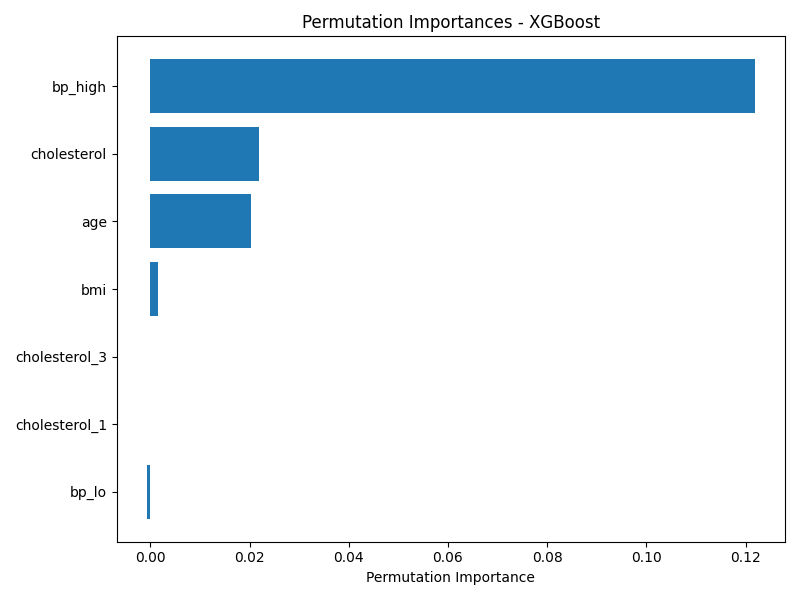
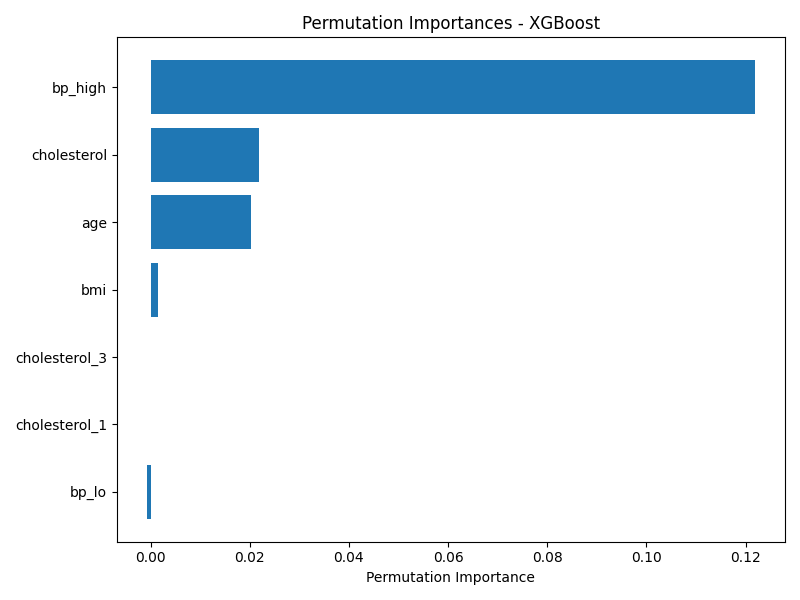
added featureimportance analysis

diff --git a/src/dashboard.py b/src/dashboard.py
@@ -10,6 +10,7 @@ from models.dash import samefeature, calculate_and_add_bmi, preprocess_input_dat
 from sklearn.preprocessing import MinMaxScaler
 from feature_engineering import FeatureEngines
 from data_preprocessing import DataProcessor
+from models.feature_importance_analysis import FeatureImportanceAnalysis
 from utils import DataInitializer
 # import scikitplot as skplt
 
@@ -65,6 +66,11 @@ rf_classif = load(f"{working_dir}/dump_model/xg_boost_model.joblib")
 # for checking if this is working or not
 prediction = rf_classif.predict(X_test)
 
+working_dir = os.path.dirname(os.path.abspath(__file__))
+rf_classif = load(f"{working_dir}/dump_model/xg_boost_model.joblib")
+
+# Instantiate the FeatureImportanceAnalysis class
+feature_analysis = FeatureImportanceAnalysis(model_files={"XGBoost": "xg_boost_model.joblib"}, X_test=X_test, y_test=y_test)
 
 with tab1:
     st.header("📊  Data Visualizer")
@@ -113,7 +119,7 @@ with tab1:
 
 
 with tab2:
-    st.header("Confusion Matrix | Feature Importances")
+    st.header("Confusion Matrix ")
     col1, col2 = st.columns(2)
     with col1:
         conf_mat_fig = plt.figure(figsize=(6, 6))
@@ -143,6 +149,14 @@ with tab2:
     st.divider()
     st.header("Classification Report")
     st.code(classification_report(y_test, prediction))
+
+    st.header("Model Performance Metrics")
+
+    # Plot Feature Importance
+    feature_analysis.plot_feature_importance()
+
+    # Permutation Importance Analysis
+    feature_analysis.permutation_importance_analysis()
 
 with tab3:
 
